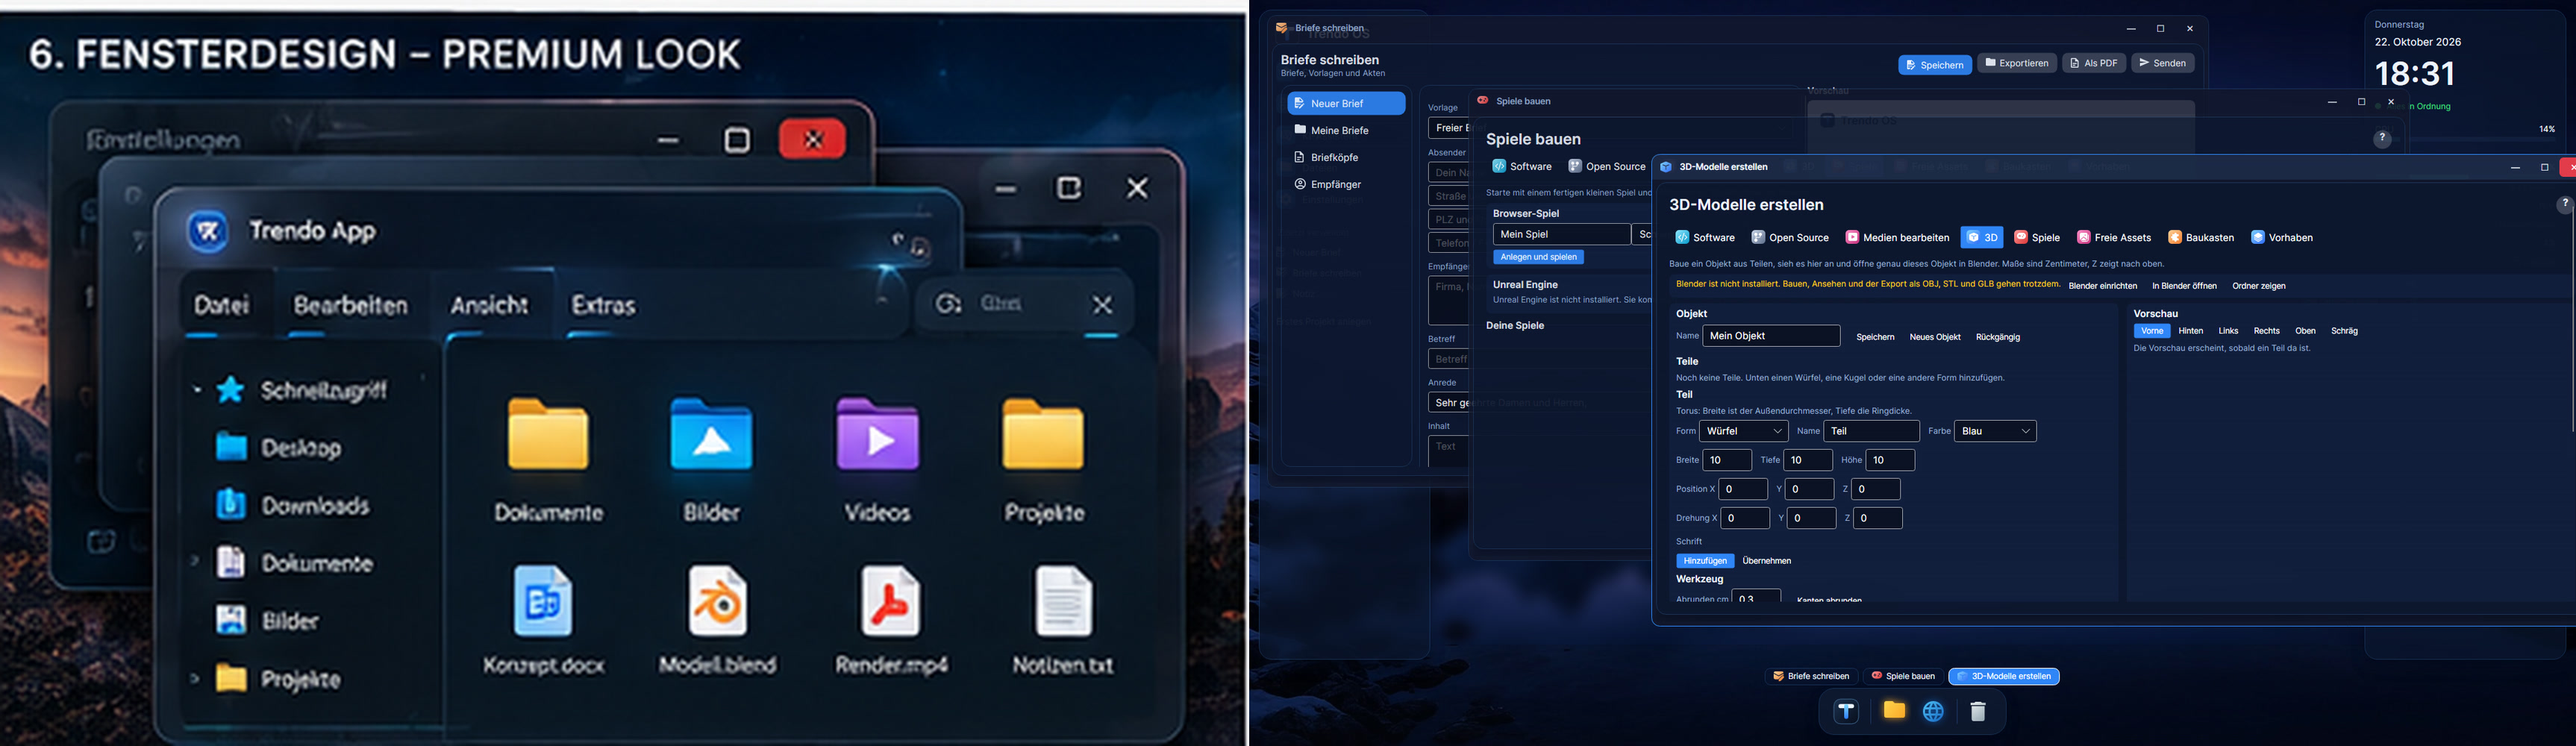
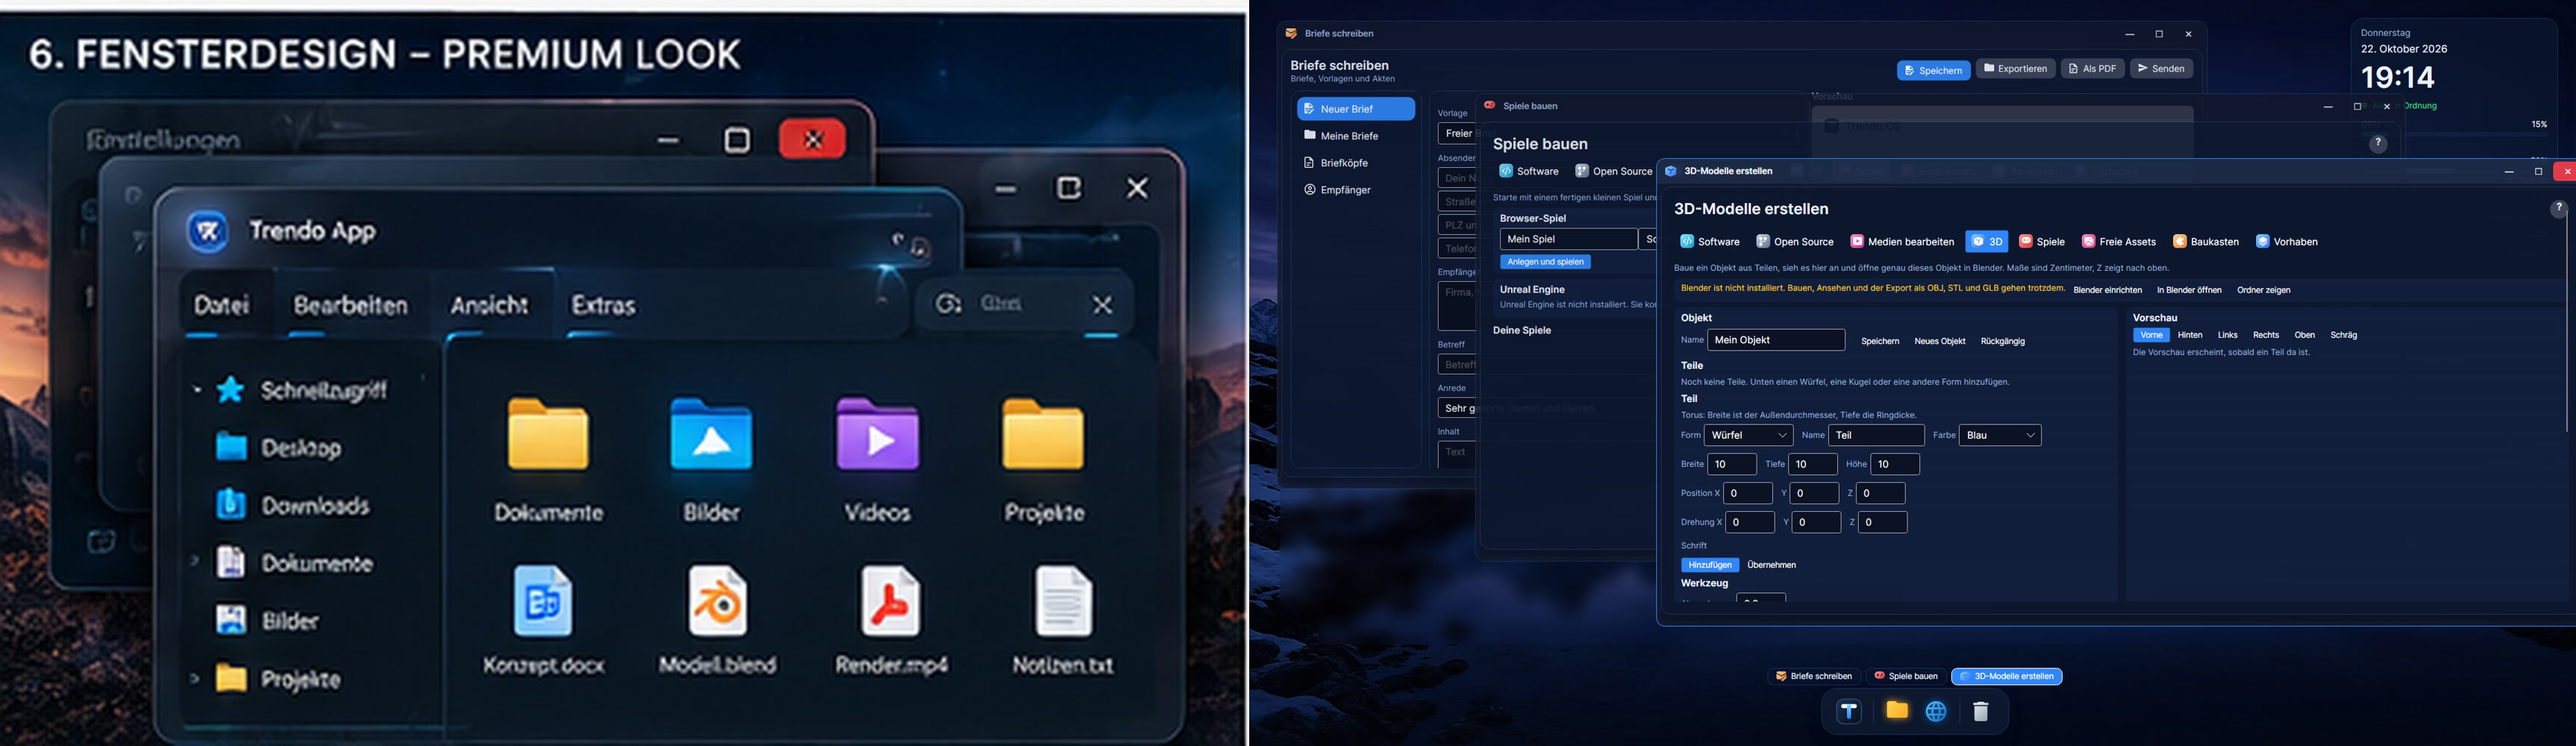
Vergleichsbilder für den freien Schreibtisch.
Die Aufnahmen zeigen die Tapete ohne linke Liste, dazu Startmenü, Brief und mehrere Fenster.

diff --git a/tasks/UI-041-PREMIUM-EXPERIENCE.bericht.md b/tasks/UI-041-PREMIUM-EXPERIENCE.bericht.md
@@ -1,37 +1,36 @@
 # UI-041 Bericht: Premium-Desktop, Startmenü, Fenster, Briefe schreiben
 
-**Auftrag:** Design 41, Phase 1. Desktop, Startmenü und Fensterchrome wie die Referenzen 01, 02 und 06. UI41-SM-01 zu Ende: jedes Katalog-Studio öffnet aus dem Startmenü ein eigenes Trendo-Fenster mit eigenem Taskleisten-Eintrag. Briefe schreiben wie Referenz 04. Danach Stopp bis zur Freigabe.
+**Auftrag:** Design 41, Phase 1. Desktop, Startmenü und Fensterchrome wie die Referenzen 01, 02 und 06. UI41-SM-01 zu Ende: jedes Katalog-Studio öffnet aus dem Startmenü ein eigenes Trendo-Fenster mit eigenem Taskleisten-Eintrag. Briefe schreiben wie Referenz 04. Zusätzlich der Wunsch des Besitzers: die App- und Studio-Liste links vom Schreibtisch entfernen. Die Tapete bleibt frei. Wenige Widgets (Uhr, echte Messwerte, echte Projekte, selbst angeheftete Studios). Alles andere über Start oder Suche. Danach Stopp bis zur Freigabe.
 **Branch:** `cursor/ui41-sm-01-startmenu-3c36` (Entwurf PR #237), auf `main` `19a37c3` neu aufgesetzt.
 
 ## Geänderte Dateien
 
-- `src/Trendo.App/MainWindow.axaml.cs` – Schreibtisch ohne globalen Zoom: linke Leiste, Wortmarke, Suche, rechte Uhr mit echten Messwerten, Dock nur für vorhandene Programme. KI-Eingabe bleibt am unteren Rand der Seite. Fenster-Timer stoppen beim Schließen.
-- `src/Trendo.App/MainWindow.StartMenu.cs` – großes Glasmenü, Kategorien mit Symbolen, Nutzer-Spalte.
-- `src/Trendo.App/MainWindow.Windows.cs` – Fensterfläche über die ganze Arbeitsfläche, dichtere Scheibe, Titelleiste, Schatten, roter Schließen-Knopf.
+- `src/Trendo.App/MainWindow.axaml.cs` – Schreibtisch ohne linke Liste. Mitte: Logo A, „Trendo OS“, Suche. Rechts schwebend: Uhr und echte CPU/RAM/GPU/SSD/Netz (`widget-system`), „Zuletzt“ nur mit echten Projekten (`widget-projekte`), „Angeheftet“ nur für selbst gewählte Studios.
+- `src/Trendo.App/MainWindow.StartMenu.cs`, `MainWindow.Windows.cs` – Menü und Fensterfläche über die eine Arbeitsfläche. Anheften aktualisiert die Schreibtisch-Karte.
 - `src/Trendo.App/MainWindow.W1Letter.cs`, `MainWindow.W1Office.cs` – Briefe schreiben: Navigation, Formular, DIN-Vorschau, Speichern / Exportieren / Als PDF / Senden.
-- `src/Trendo.App/MainWindow.W2.cs`, `MainWindow.Look.cs`, `MainWindow.Workflows.cs`, `MdiIcons.cs` – KI-Reiter ohne Doppelte in der Anzeige, Timer am Fenster, Symbole für Hilfe, Neu starten, Beenden.
+- `src/Trendo.App/MainWindow.W2.cs`, `MainWindow.Look.cs`, `MainWindow.Workflows.cs`, `MdiIcons.cs` – KI-Reiter, Timer am Fenster, Symbole.
 - `src/Trendo.Core/SystemMetrics.cs` – RAM, SSD und Netz aus echten Quellen. GPU nur mit nvidia-smi, sonst „n. v.“.
 - `src/Trendo.Core/Shell/PathFields.cs` – Suchfelder sind keine Dateifelder.
-- `tests/Trendo.App.Tests/UiTests.cs`, `KiEnterTests.cs`, `StudioClickTests.cs`, `WindowsUiTests.cs`, `tests/Trendo.Core.Tests/PathFieldsTests.cs`
+- `tests/Trendo.App.Tests/UiTests.cs` – Tab/Enter über Profil und Einstellungen im Startmenü. Notizen über die Suche. Briefe schreiben über das Startmenü.
 - `tools/Trendo.Render/Program.cs` – Aufnahmen Startmenü, Brief, mehrere Fenster.
 - `reports/design-41/vergleich/` – Soll/Ist-Bilder und `UNTERSCHIEDE.md`.
 
-UI41-SM-01 (jedes Studio, drei parallel, 1366×768) steckt im Vorgänger-Commit `241da0e` und bleibt grün.
+UI41-SM-01 (jedes Studio, drei parallel, 1366×768) steckt im Commit `241da0e` und bleibt grün.
 
 ## Testergebnis
 
 `dotnet test Trendo.sln -c Release`. Die Laufzeit schreibt Englisch („Passed!“).
 
-- `Trendo.Api.Tests`: Failed 0, Passed 15, Skipped 0, Total 15, Duration 285 ms.
-- `Trendo.Core.Tests`: Failed 0, Passed 471, Skipped 10, Total 481, Duration 8 s. Die 10 Übersprungenen sind `WinRealTests` (Windows-Programme, auf Linux nicht da).
-- `Trendo.App.Tests`: Failed 0, Passed 203, Skipped 0, Total 203, Duration 10 m 46 s. Darin `Jedes_Studio`, `Drei_gleichzeitig` bei 1366×768, KI-Enter, Brief, Fenster, DesignHonesty.
-
-Davor einmal rot: SPEC-10 meldete „Alarm“, weil geschlossene Fenster samt Hintergrundbild im Speicher blieben (Arbeitsspeicher des Testprozesses über 3000 MB). Die Timer stoppen jetzt beim Schließen. Der Lauf danach ist grün. Ein einzelner Begleiter-Test war in einem früheren Lauf an „Address already in use“ beim Aufräumen gescheitert und im grünen Lauf bestanden.
+- `Trendo.Api.Tests`: Failed 0, Passed 15, Skipped 0, Total 15, Duration 601 ms.
+- `Trendo.Core.Tests`: Failed 0, Passed 471, Skipped 10, Total 481, Duration 6 s. Die 10 Übersprungenen sind `WinRealTests` (Windows-Programme, auf Linux nicht da).
+- `Trendo.App.Tests`: Failed 0, Passed 203, Skipped 0, Total 203, Duration 11 m 11 s. Darin `Jedes_Studio`, `Drei_gleichzeitig` bei 1366×768, KI-Enter, Brief, Fenster, DesignHonesty.
 
 ## Offene Punkte
 
 - Die übrigen Studios (Karten, KI-Seite, Einstellungen, Dateien) haben den neuen Look noch nicht. Erst nach JA.
-- Unterschiede zur Referenz stehen in `reports/design-41/vergleich/UNTERSCHIEDE.md`.
+- Die linke Liste aus Referenz 01 ist bewusst weg. Unterschiede stehen in `reports/design-41/vergleich/UNTERSCHIEDE.md`.
+- Kein Wetter auf dem Schreibtisch. Es bleibt in „Zeit & Kalender“ und erscheint erst nach Ort und Klick.
+- Fehlt die Texterkennung, öffnet „Briefe schreiben“ im Startmenü zuerst die Programmfrage. „Später“ führt in den Brief. Die Suche nach „Brief“ öffnet die Seite direkt.
 - Auf dieser Linux-Box liegt Chrome im PATH, deshalb zeigt das Dock den Browser. Mail, Blender und Unreal nicht.
 
 ## Nicht geprüft

diff --git a/reports/design-41/vergleich/UNTERSCHIEDE.md b/reports/design-41/vergleich/UNTERSCHIEDE.md
@@ -8,15 +8,16 @@ Die App übernimmt Aufbau, Glas, Abstände, Farben, Schrift und Symbole. Texte, 
 
 ## 01 Desktop
 
-- Aufbau stimmt: linke Leiste, Wortmarke, Suchfeld, rechte Uhr mit echten Messwerten, Dock unten, Wallpaper randlos.
-- Kein Slogan unter „Trendo OS“. Der Satz aus dem Bild ist nicht freigegeben.
-- Kein Wetter, kein „Trendo Radio“.
+- Die linke App- und Studio-Liste ist weg. Das ist der neue Wunsch des Besitzers: die Tapete bleibt frei, Studios kommen aus dem Startmenü, der Suche oder der Taskleiste. Die Referenz zeigt links noch Start, Studios, KI, Dateien, Einstellungen und erfundene Dateien.
+- Mitte: Logo A, „Trendo OS“, ein Suchfeld. Kein Slogan. Der Satz aus dem Bild ist nicht freigegeben.
+- Rechts schweben wenige Glaskarten: Wochentag, Datum, Uhr, echte CPU/RAM/GPU/SSD und Netz. Darunter „Zuletzt“ nur mit echten Projekten. Ohne Projekt steht dort „Erstes Projekt anlegen“, keine erfundenen Dateien.
+- Angeheftete Studios erscheinen als eigene Karte nur, wenn der Besitzer sie im Startmenü selbst anheftet. Ohne Auswahl bleibt die Fläche leer.
+- Kein Wetter auf dem Schreibtisch und kein „Trendo Radio“. Wetter gibt es in „Zeit & Kalender“, erst nach Ort und Klick, ohne erfundene Temperatur. Ein frischer Schreibtisch hat keinen gespeicherten Ort.
 - Logo ist Entwurf A (Obsidian-Kachel), nicht der T-Kreis aus dem Bild.
 - Wallpaper ist das vorhandene `bergsee-nacht` (Nacht, Lichtkreis), nicht das Sonnenuntergangsbild der Referenz.
 - Dock zeigt nur vorhandene Programme. Auf dieser Linux-Box: Dateien, Browser (Chrome liegt im PATH), Papierkorb. Mail, Blender und Unreal fehlen, weil sie nicht installiert sind. Studios stehen nicht im Dock.
-- Linke Leiste hat drei feste Einträge, die bestehende Tests verlangen: „Neuer Brief“, „Briefe schreiben“, „Notiz“. Die Referenz zeigt stattdessen erfundene Dateien. Ohne echte zuletzt geöffnete Einträge bleibt die Liste leer, plus „Erstes Projekt anlegen“.
 - GPU ist auf dieser Box „n. v.“ / „Nicht verfügbar“ (kein nvidia-smi). CPU, RAM, SSD und Netz sind echte Werte.
-- Suchplatzhalter: „Studios, Dateien und Einstellungen suchen“.
+- Suchplatzhalter: „Studios, Dateien und Einstellungen suchen“. Strg+1 bis Strg+5 öffnen weiterhin Start, Studios, Projekte, Freigaben und System.
 
 ## 02 Startmenü
 
@@ -26,7 +27,7 @@ Die App übernimmt Aufbau, Glas, Abstände, Farben, Schrift und Symbole. Texte, 
 - Nutzer heißt „Lokaler Besitzer“, wenn kein Name gesetzt ist. Kein „Pro Edition“, kein „Herunterfahren“, kein „Sperren“. „Trendo beenden“ schließt nur das Fenster.
 - „Zuletzt verwendet“ zeigt echte Seiten. Im Bild sind erfundene Dateien mit Minutenangaben.
 - Angeheftete Studios erscheinen zusätzlich in der Trendo-Taskleiste (Vorgabe UI41-SM-01). Das Bild zeigt sie nur im Menü.
-- Das Menü liegt über dem Desktop. Leiste, Uhr und Dock bleiben sichtbar.
+- Das Menü liegt über dem Desktop. Die linke Liste fehlt auch hier. Rechts bleiben Uhr und, in dieser Aufnahme, die Karte „Angeheftet“, weil fünf Studios für das Bild angeheftet sind. Dieselben fünf stehen in der Trendo-Taskleiste. Dock und Uhr bleiben sichtbar.
 
 ## 04 Briefe schreiben
 
@@ -48,7 +49,7 @@ Die App übernimmt Aufbau, Glas, Abstände, Farben, Schrift und Symbole. Texte, 
 - Inhalt der Referenz (Datei / Bearbeiten / Ansicht, Ordner-Symbole, erfundene Dateien) ist der Dateimanager und gehört nicht in diese Phase.
 - Die Aufnahme zeigt drei echte Studios gleichzeitig: Briefe schreiben, Spiele bauen, 3D-Modelle erstellen. Blender und Unreal werden nicht gestartet.
 - Inaktive Fenster sind leicht durchscheinend. Das aktive Fenster ist deckender.
-- Bei 1366×768 bleiben Taskleiste, Dock und die drei Fenster bedienbar. Die Seitenleisten werden schmaler, die rechte Uhr bleibt.
+- Bei 1366×768 bleiben Taskleiste, Dock und die drei Fenster bedienbar. Die linke Liste fehlt. Die Uhr bleibt rechts oben, solange das Fenster sie nicht verdeckt.
 
 ## Bewusst nicht in dieser Phase
 

diff --git a/docs/build-log/2026-10-22-design-41-schreibtisch.md b/docs/build-log/2026-10-22-design-41-schreibtisch.md
@@ -1,0 +1,9 @@
+# 2026-10-22 – Design 41, Schreibtisch ohne linke Liste
+
+Die App- und Studio-Liste links am Schreibtisch ist entfernt. Jedes Studio bleibt über das Startmenü, die Suche oder die Taskleiste erreichbar. In der Mitte liegen Logo, Wortmarke und Suche auf der Tapete. Rechts schweben Uhr, echte Messwerte, echte Projekte und nur die Studios, die der Besitzer selbst anheftet. Kein erfundenes Wetter.
+
+Vergleich: `reports/design-41/vergleich/` (links SOLL, rechts IST). Bericht: `tasks/UI-041-PREMIUM-EXPERIENCE.bericht.md`.
+
+`dotnet test Trendo.sln -c Release`: Api 15 bestanden (601 ms), Core 471 bestanden / 10 übersprungen (6 s), App 203 bestanden (11 m 11 s).
+
+Stopp bis zur Freigabe. Die übrigen Studios bleiben im bisherigen Look.

diff --git a/reports/design-41/README.md b/reports/design-41/README.md
@@ -2,6 +2,7 @@
 
 Phase 1 (22.10.2026), Branch `cursor/ui41-sm-01-startmenu-3c36`.
 Aufnahmen aus der laufenden Avalonia-App (`tools/Trendo.Render`, Skia, headless), nicht vom Windows-PC.
+Der Schreibtisch hat keine linke App-Liste mehr. Studios öffnen über Start, Suche oder die Taskleiste. Rechts schweben Uhr, echte Messwerte und – nur bei echten Daten – zuletzt geöffnete Projekte oder selbst angeheftete Studios.
 
 `vergleich/`: links Referenz (SOLL), rechts IST.
 

diff --git a/docs/build-log/2026-10-22-design-41-phase1.md b/docs/build-log/2026-10-22-design-41-phase1.md
@@ -6,4 +6,6 @@ Vergleich: `reports/design-41/vergleich/` (links SOLL, rechts IST). Bericht: `ta
 
 `dotnet test Trendo.sln -c Release`: Api 15 bestanden, Core 471 bestanden / 10 übersprungen, App 203 bestanden.
 
+Nachtrag am selben Tag: die linke App-Liste ist weg. Details in `2026-10-22-design-41-schreibtisch.md`. Der Lauf danach ist derselbe Stand: Api 15, Core 471/10, App 203.
+
 Stopp bis zur Freigabe. Die übrigen Studios bleiben im bisherigen Look.
